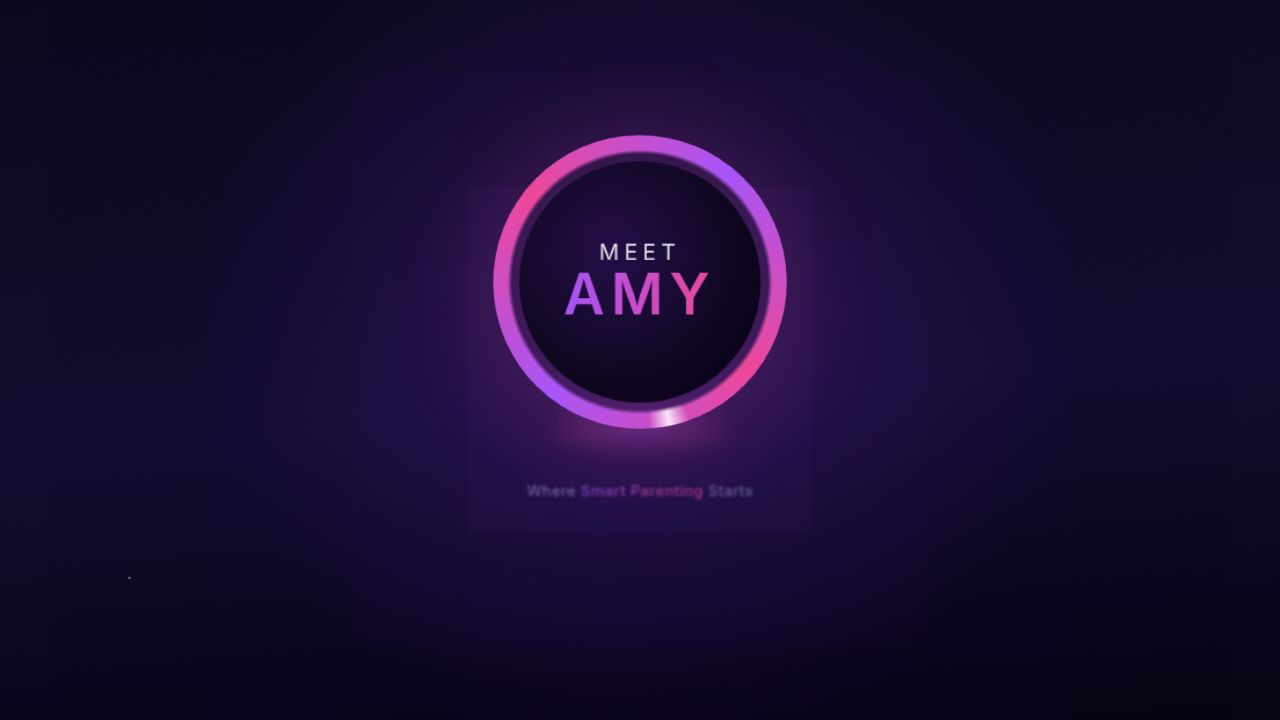
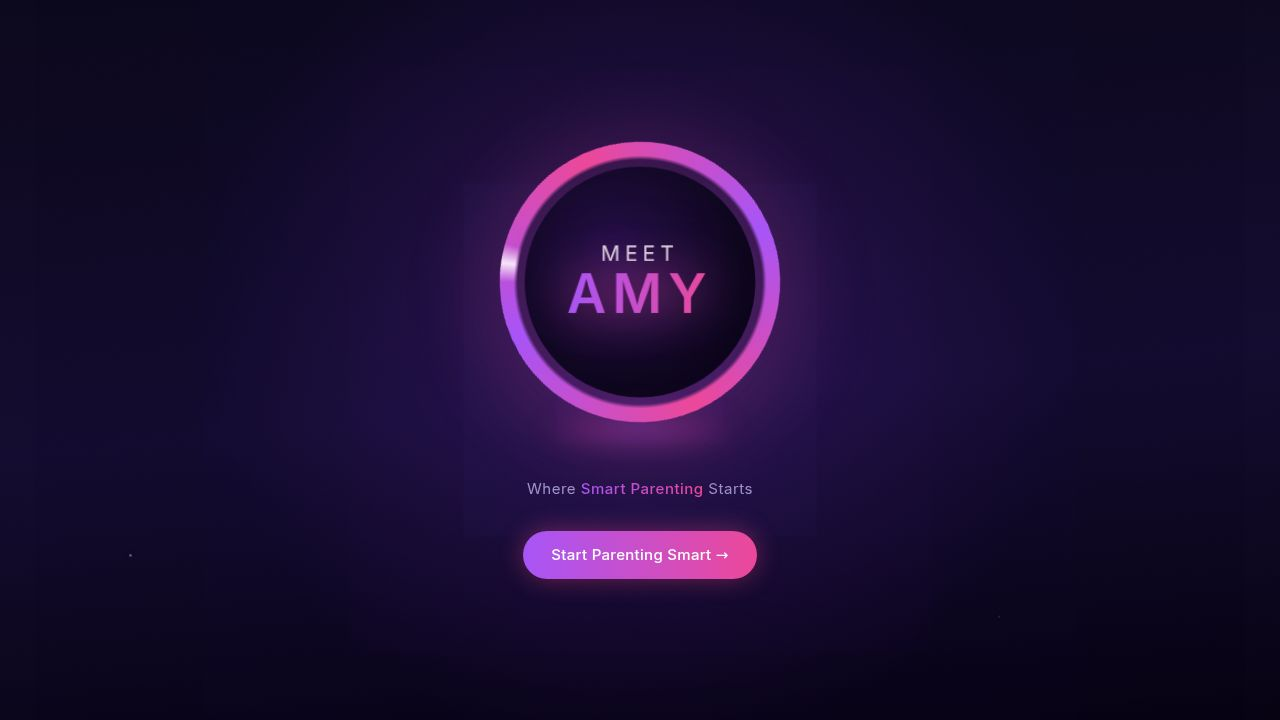
Task #254: Fix remaining orange-on-orange contrast in Parent Hub (dark mode)
Most surfaces in `parenting-hub.tsx` and `parenting-articles.tsx` were
already converted to the neutral-card pattern in dark mode by the broad
sweep in #251 (`bg-muted dark:bg-card`, `from-muted dark:from-card …
to-muted dark:to-card`), so brand-orange icons/text now sit on a dark
neutral surface in dark mode and on a light tan surface in light mode —
both readable. The audit for `dark:bg-primary` / `dark:from-primary` in
those two files now returns clean.

The two genuinely-broken spots that remained on the Parent Hub:

1. `components/parent-command-center.tsx` (the featured Command Center
   tile at the top of the hub) — the tile itself is solid orange
   (`from-primary via-primary to-primary`) in both modes, but the
   header `Sparkles` icon used `text-primary` (orange icon on orange
   surface, completely invisible) and the body text used
   `text-muted-foreground` / `text-foreground` which read poorly on the
   orange tile. The "Open" pill also re-used the same orange gradient
   on top of an orange tile. Switched header icon and all body text to
   `text-primary-foreground` / `text-primary-foreground/80` (the
   on-primary token) and the Open pill to `bg-white/95 text-primary`
   so it now reads as a clear pill on top of the orange tile in both
   modes.

2. `pages/parenting-hub.tsx` "Section 2 / NEXT UP" header — its label
   and badge previously used `text-primary dark:text-muted-foreground`
   while the matching Section 1 / "FOR …" header used `text-primary/80`
[…]

Changed region(s): [[0.375, 0.1833, 0.625, 0.6111], [0.4062, 0.6722, 0.5938, 0.825]]

diff --git a/artifacts/kidschedule/src/components/parent-command-center.tsx b/artifacts/kidschedule/src/components/parent-command-center.tsx
@@ -126,20 +126,20 @@ export function ParentCommandCenter({
           <ProgressRing pct={overview.routineCompletionPct} size={56} />
           <div className="flex-1 min-w-0">
             <div className="flex items-center gap-1.5">
-              <Sparkles className="h-3.5 w-3.5 text-primary" />
-              <p className="font-quicksand font-bold text-[14px] leading-tight text-foreground truncate">
+              <Sparkles className="h-3.5 w-3.5 text-primary-foreground" />
+              <p className="font-quicksand font-bold text-[14px] leading-tight text-primary-foreground truncate">
                 {child.name}{t("components.parent_command_center.s_command_center")}
               </p>
             </div>
-            <p className="text-[11px] text-muted-foreground truncate mt-0.5">
-              <span className="font-bold text-foreground/90">{overview.statusEmoji} {overview.statusLabel}</span>
+            <p className="text-[11px] text-primary-foreground/80 truncate mt-0.5">
+              <span className="font-bold text-primary-foreground">{overview.statusEmoji} {overview.statusLabel}</span>
               {suggestions.length > 0 && <> · {suggestions[0].emoji} {suggestions[0].label}</>}
             </p>
-            <p className="text-[10.5px] text-muted-foreground mt-0.5 truncate">
+            <p className="text-[10.5px] text-primary-foreground/80 mt-0.5 truncate">
               {overview.routineCompletedTasks}/{overview.routineTotalTasks} {t("components.parent_command_center.done")} {MOOD_LABEL[overview.mood]} · {SLEEP_LABEL[overview.sleepQuality]}
             </p>
           </div>
-          <span className={["shrink-0 inline-flex items-center gap-1 rounded-full px-3 py-1.5", "bg-gradient-to-r from-primary to-primary text-white", "text-[11px] font-bold shadow-[0_8px_24px_-8px_rgba(168,85,247,0.7)]", "group-hover:scale-[1.04] transition-transform"].join(" ")}>
+          <span className={["shrink-0 inline-flex items-center gap-1 rounded-full px-3 py-1.5", "bg-white/95 text-primary", "text-[11px] font-bold shadow-[0_8px_24px_-8px_rgba(0,0,0,0.25)]", "group-hover:scale-[1.04] transition-transform"].join(" ")}>
             {t("components.parent_command_center.open")}
             <ArrowRight className="h-3 w-3" />
           </span>

diff --git a/artifacts/kidschedule/src/pages/parenting-hub.tsx b/artifacts/kidschedule/src/pages/parenting-hub.tsx
@@ -926,8 +926,8 @@ function ExploreNextHeader({
   } = useTranslation();
   return <div className="pt-6">
       <div className="flex items-center gap-2">
-        <span className="text-[10px] font-bold uppercase tracking-[0.18em] text-primary dark:text-muted-foreground">{t("parent_hub.headers.section2_next")}</span>
-        <Badge variant="outline" className="rounded-full px-2.5 py-0 h-5 font-semibold text-[10px] gap-1 border-border dark:border-border text-primary dark:text-muted-foreground">
+        <span className="text-[10px] font-bold uppercase tracking-[0.18em] text-primary/80">{t("parent_hub.headers.section2_next")}</span>
+        <Badge variant="outline" className="rounded-full px-2.5 py-0 h-5 font-semibold text-[10px] gap-1 border-border text-primary">
           {bandLabel(band)}
         </Badge>
       </div>